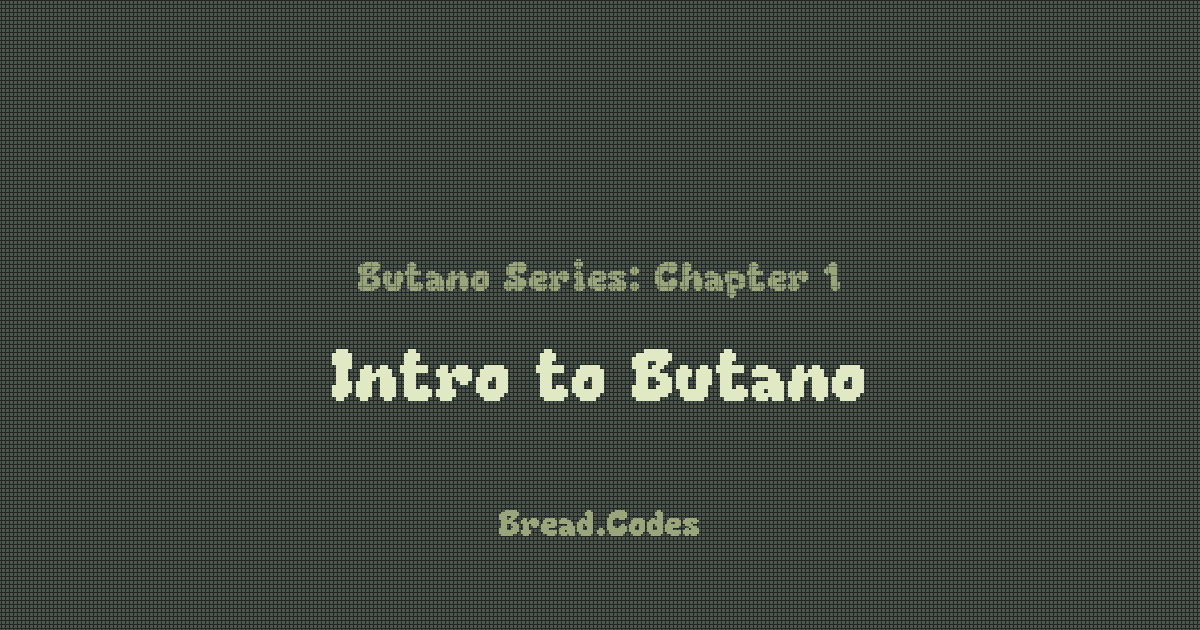
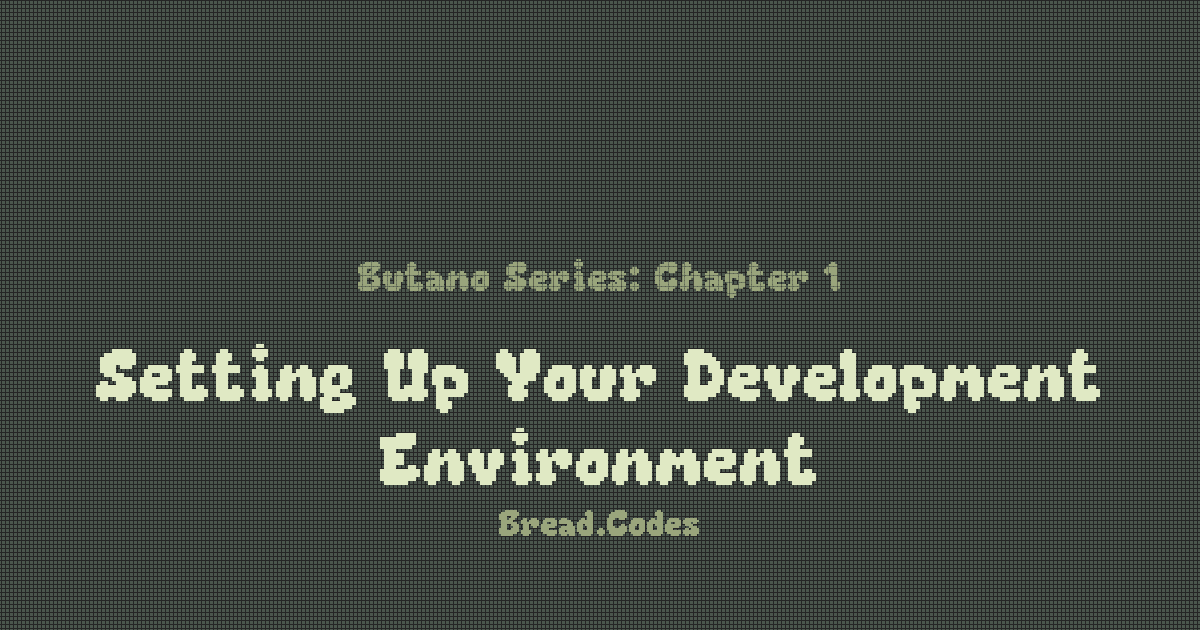
add requirements.txt

Changed region(s): [[0.0617, 0.5429, 0.925, 0.6635], [0.3083, 0.6937, 0.6783, 0.7841]]

diff --git a/_posts/2026-01-18-butano-series-1.md b/_posts/2026-01-18-butano-series-1.md
@@ -2,7 +2,7 @@
 layout: post
 chapter-header: Chapter 1
 super-title: Butano Series
-title: Intro to Butano
+title: Setting Up Your Development Environment
 slug: butano-series-1
 date: 2026-01-18
 categories: ["media", "game boy", "gameboy", "gba", "game boy advance", "gamedev", "butano", "game dev"]
